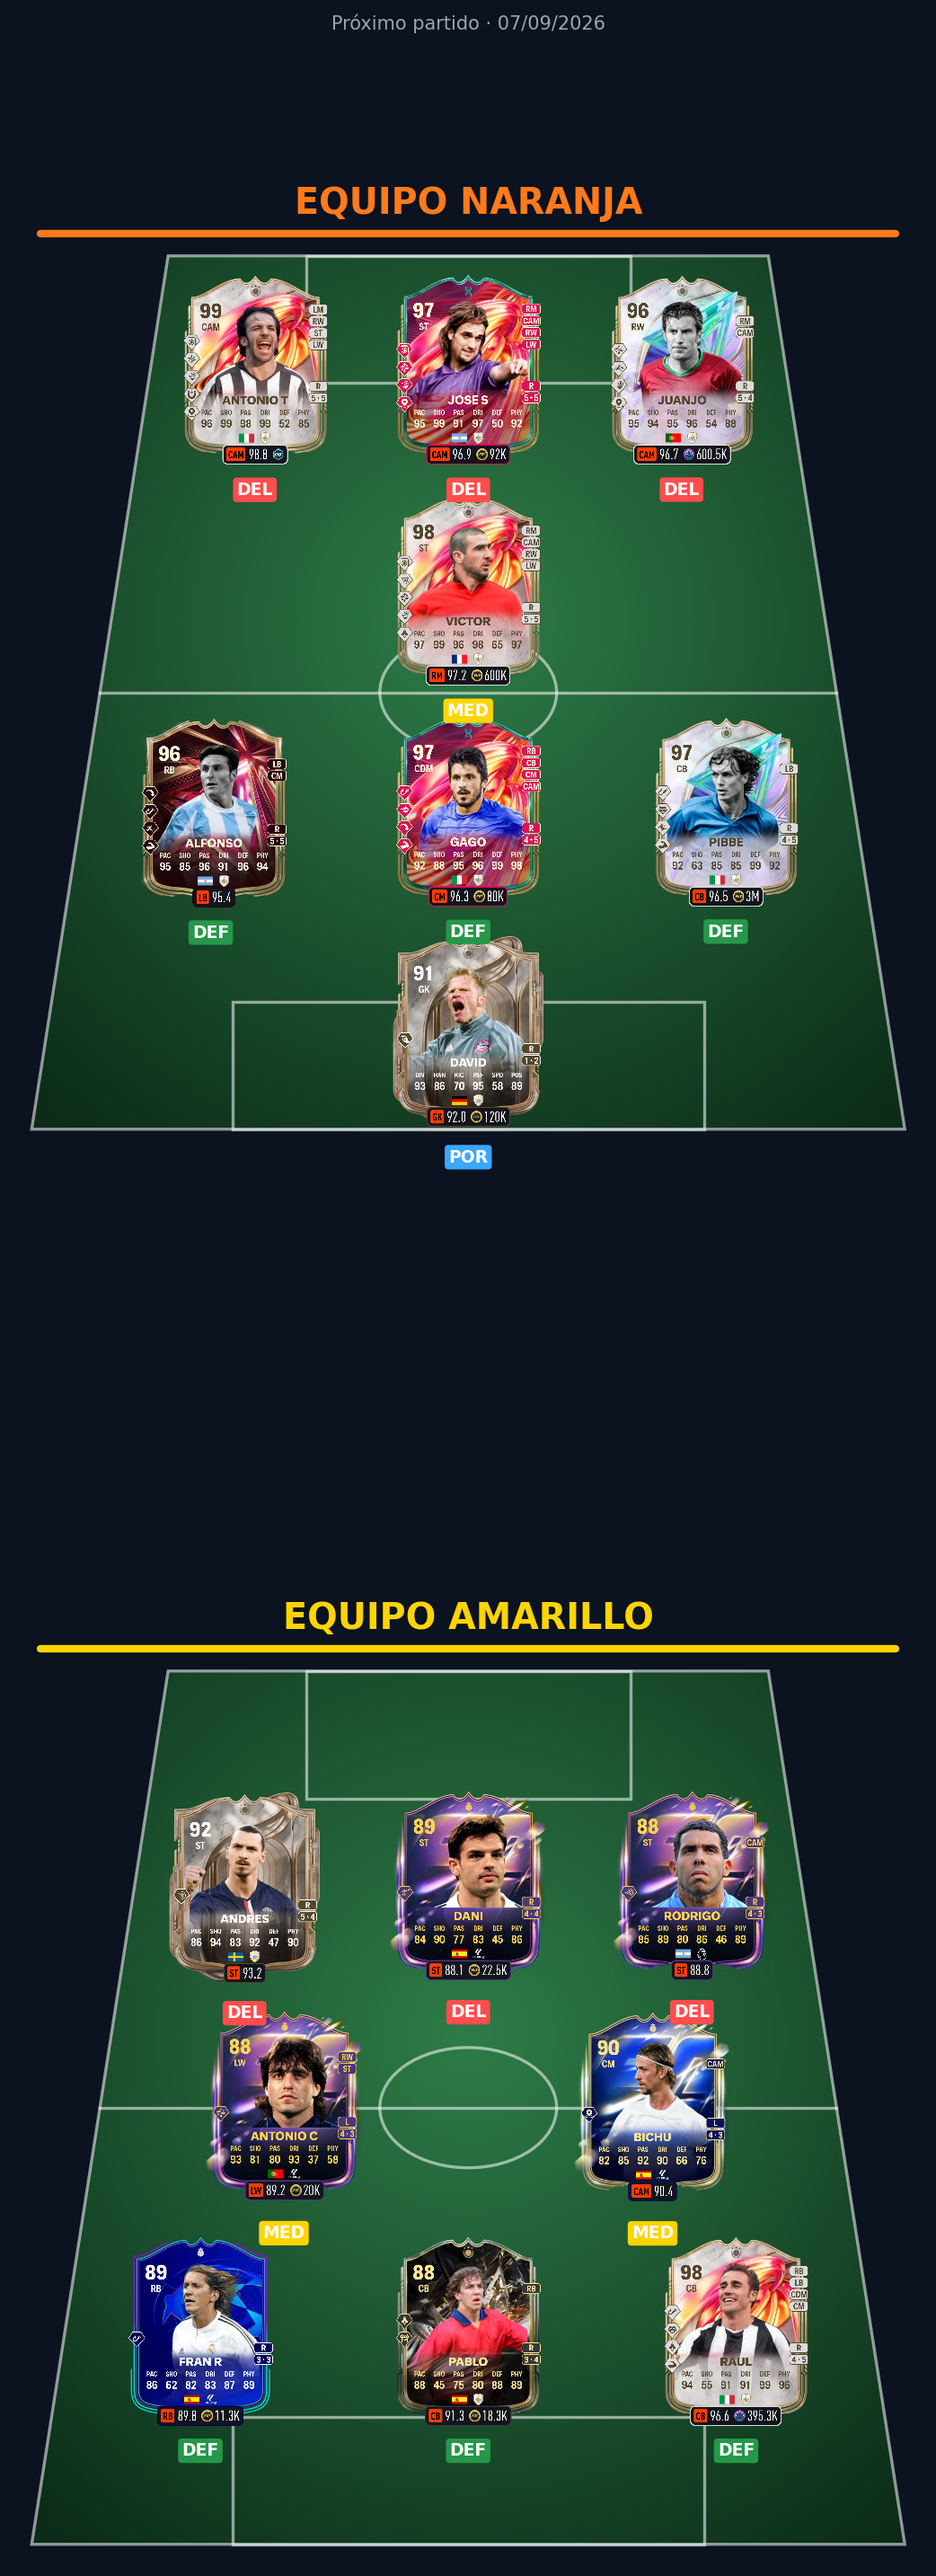
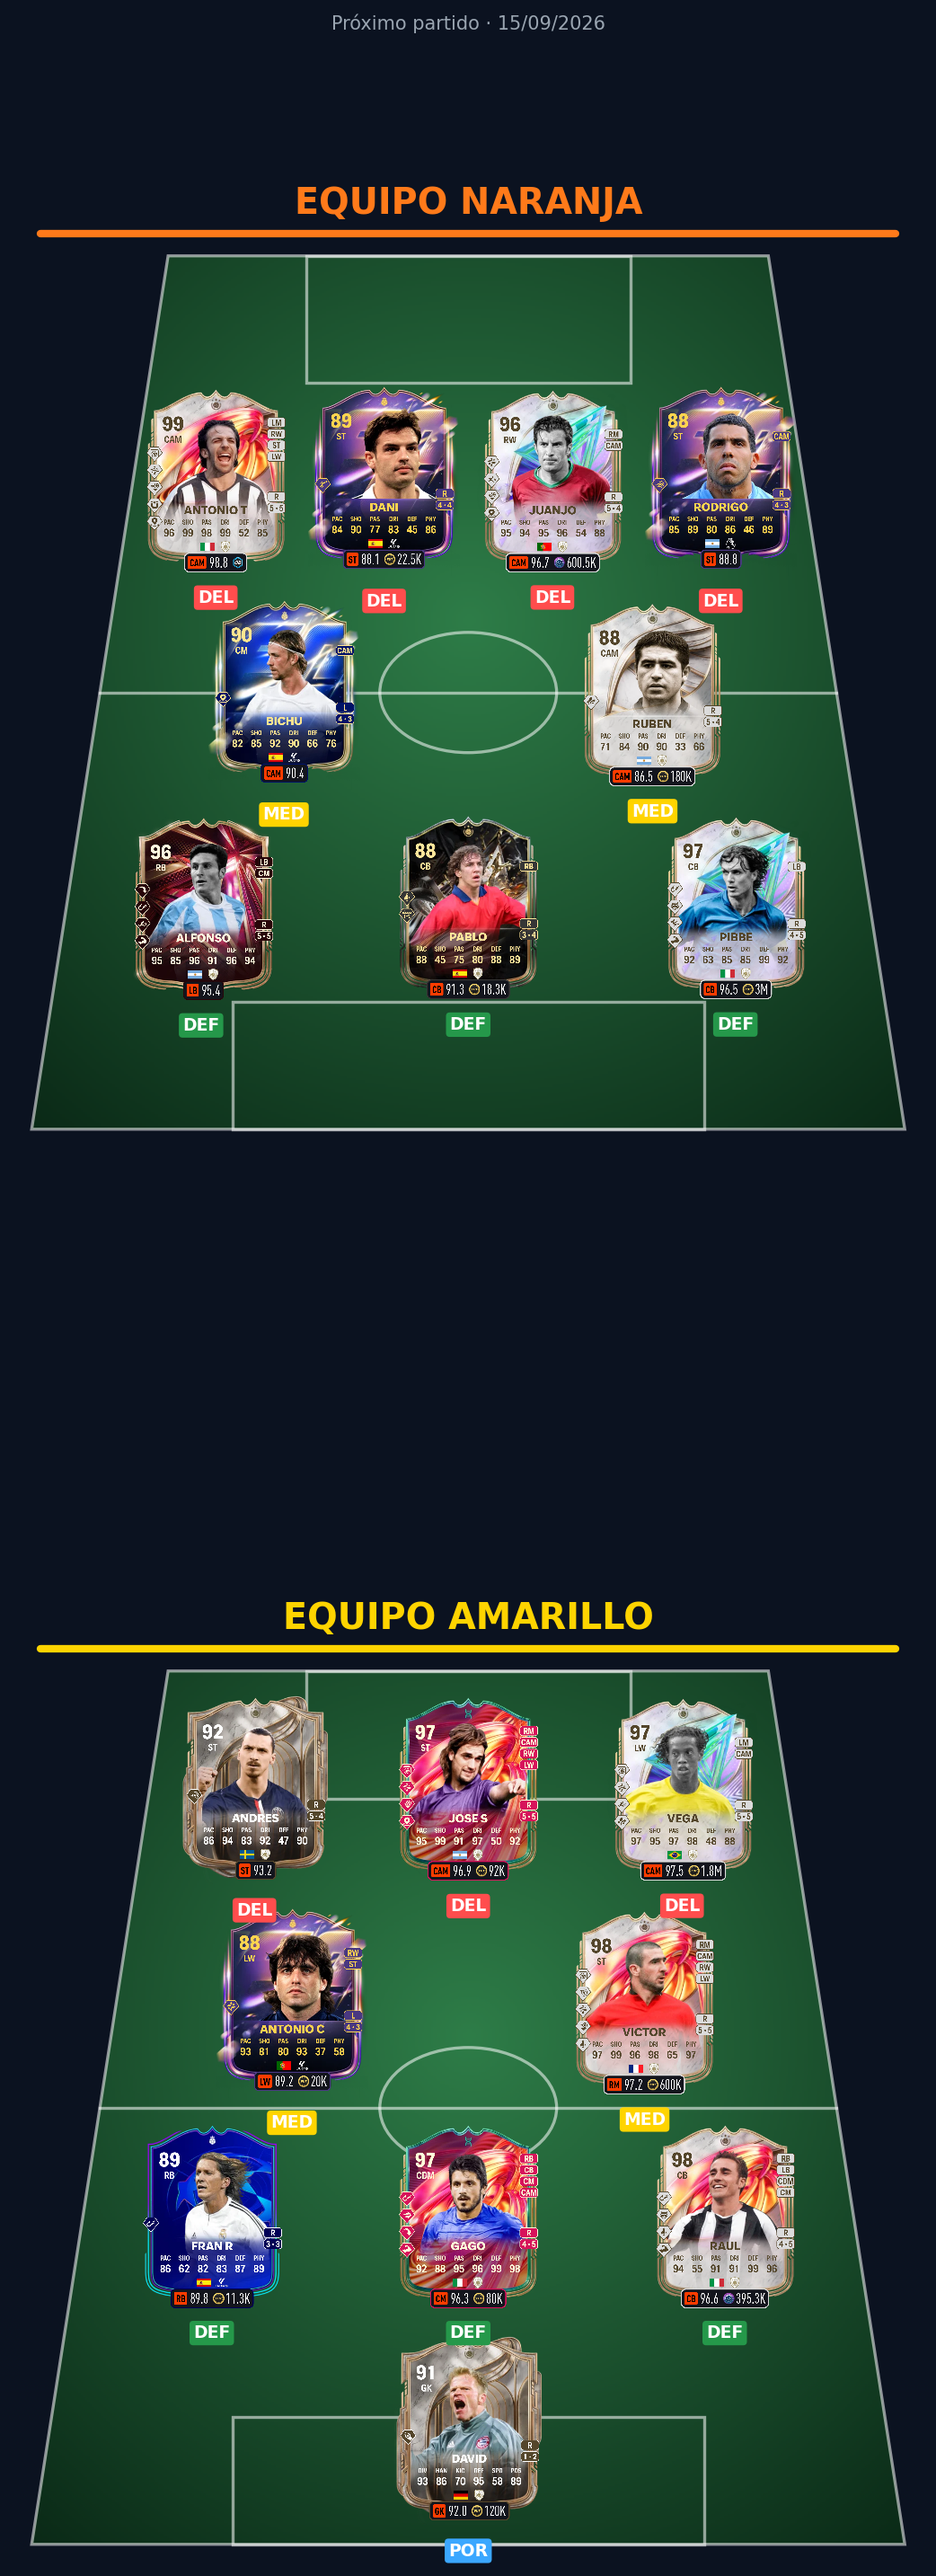
Actualizar resultados y estadisticas (06/09/2026 02:32)

Changed region(s): [[0.1228, 0.0931, 0.8599, 0.4656], [0.1228, 0.6519, 0.5835, 1.0], [0.6142, 0.6519, 0.8599, 0.9623]]

diff --git a/index.html b/index.html
@@ -113,15 +113,25 @@
 <header>
   <img class="crest" src="img/escudo.png" alt="Escudo Peña QueSeFolme">
   <h1>Peña QueSeFolme</h1>
-  <p>Resultados y Estadísticas · Actualizado el 06/09/2026 02:30</p>
+  <p>Resultados y Estadísticas · Actualizado el 06/09/2026 02:32</p>
 </header>
 <nav>
-  
+  <a href="#proximo">🔜 Próximo partido</a>
   <a href="#clasificacion">🏆 Clasificación</a>
   <a href="#goleadores">⚽ Goleadores</a>
   <a href="#partidos">📅 Partidos</a>
 </nav>
 <main>
+  <section id="proximo">
+    <h2>🔜 Próximo partido</h2>
+    
+    <p class="muted" style="text-align:center;">15/09/2026</p>
+    <img src="img/proximo_partido.png" alt="Alineación del 15/09/2026" loading="lazy">
+    <div class="scorers-row" style="margin-top:18px;">
+      <div><h3 style="color:var(--naranja);">Naranja</h3><ul class="scorers"><li>Alfonso <span class="muted">(DEF)</span></li><li>AntonioT <span class="muted">(DEL)</span></li><li>Bichu <span class="muted">(MED)</span></li><li>Dani <span class="muted">(DEL)</span></li><li>Juanjo <span class="muted">(DEL)</span></li><li>Pablo <span class="muted">(DEF)</span></li><li>Pibbe <span class="muted">(DEF)</span></li><li>Rodrigo <span class="muted">(DEL)</span></li><li>Ruben <span class="muted">(MED)</span></li></ul></div>
+      <div><h3 style="color:var(--amarillo);">Amarillo</h3><ul class="scorers"><li>Andres <span class="muted">(DEL)</span></li><li>AntonioC <span class="muted">(MED)</span></li><li>David <span class="muted">(POR)</span></li><li>FranR <span class="muted">(DEF)</span></li><li>Gago <span class="muted">(DEF)</span></li><li>JoseS <span class="muted">(DEL)</span></li><li>Raul <span class="muted">(DEF)</span></li><li>Vega <span class="muted">(DEL)</span></li><li>Victor <span class="muted">(MED)</span></li></ul></div>
+    </div>
+  </section>
   <section id="clasificacion">
     <h2>🏆 Clasificación general</h2>
     
